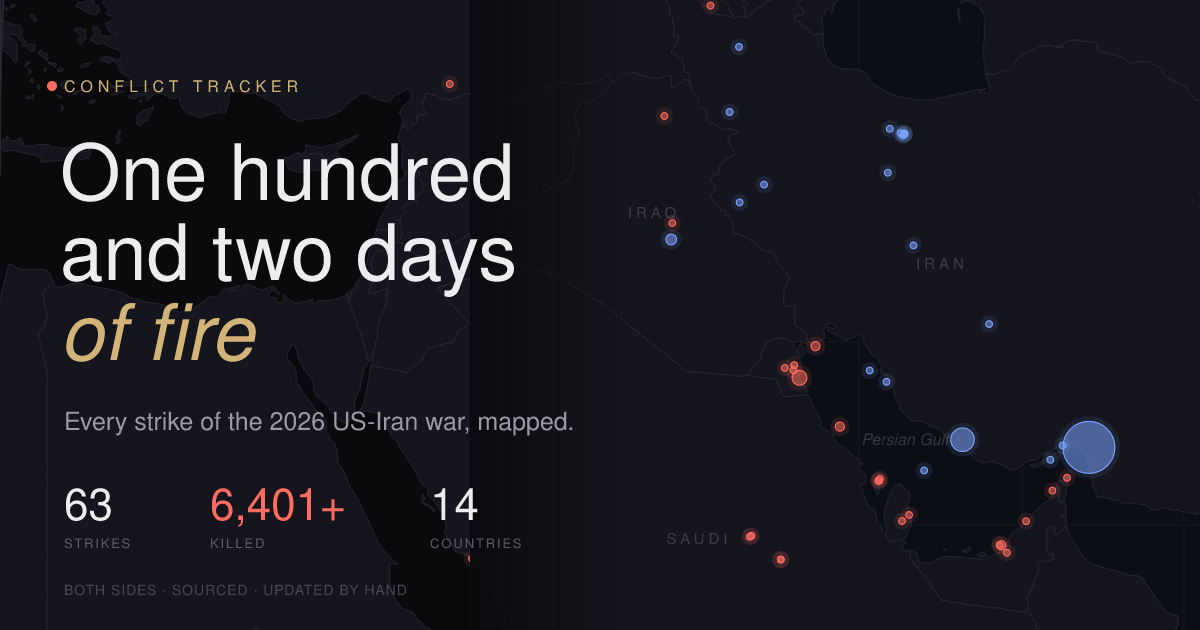
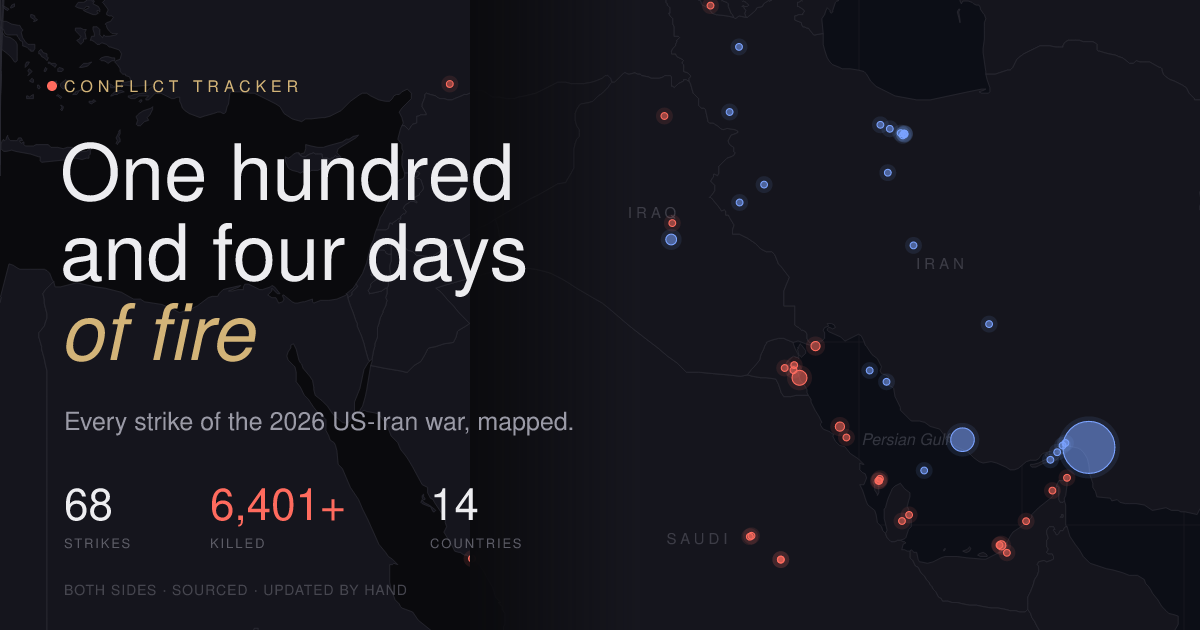
Update through 12 June: add June 9-11 escalation, Hormuz closure, refresh share image

diff --git a/index.html b/index.html
@@ -3,21 +3,21 @@
 <head>
 <meta charset="UTF-8">
 <meta name="viewport" content="width=device-width, initial-scale=1.0">
-<title>102 Days of Fire: The 2026 Iran War, Strike by Strike</title>
+<title>104 Days of Fire: The 2026 Iran War, Strike by Strike</title>
 <meta name="description" content="Every documented strike of the 2026 US-Iran war from both sides, mapped. 63 events across 14 countries with sourced, range-honest casualty figures. Compiled by hand.">
-<meta property="og:site_name" content="102 Days of Fire">
-<meta property="og:title" content="One hundred and two days of fire">
-<meta property="og:description" content="Every documented strike of the 2026 Iran war from both sides, mapped. 63 events, 14 countries, compiled 10 June 2026.">
+<meta property="og:site_name" content="104 Days of Fire">
+<meta property="og:title" content="One hundred and four days of fire">
+<meta property="og:description" content="Every documented strike of the 2026 Iran war from both sides, mapped. 68 events, 14 countries, compiled 12 June 2026.">
 <meta property="og:type" content="article">
-<meta property="og:url" content="https://mossadmademedoit.xyz/">
-<meta property="og:image" content="https://mossadmademedoit.xyz/og.png">
+<meta property="og:url" content="https://iran-war-strike-tracker.onrender.com/">
+<meta property="og:image" content="https://iran-war-strike-tracker.onrender.com/og.png">
 <meta property="og:image:width" content="1200">
 <meta property="og:image:height" content="630">
 <meta property="og:image:alt" content="Dark map of the Middle East with strike markers across Iran and the Gulf, headlined One hundred and two days of fire.">
 <meta name="twitter:card" content="summary_large_image">
-<meta name="twitter:title" content="One hundred and two days of fire: the 2026 Iran war, strike by strike">
-<meta name="twitter:description" content="63 documented strikes across 14 countries, from both sides. Compiled 10 June 2026.">
-<meta name="twitter:image" content="https://mossadmademedoit.xyz/og.png">
+<meta name="twitter:title" content="One hundred and four days of fire: the 2026 Iran war, strike by strike">
+<meta name="twitter:description" content="68 documented strikes across 14 countries, from both sides. Compiled 12 June 2026.">
+<meta name="twitter:image" content="https://iran-war-strike-tracker.onrender.com/og.png">
 <style>
   :root{
     --bg:#0a0a0d; --ink:#121218; --ink2:#17171f; --line:#26262f; --line2:#34343f;
@@ -189,19 +189,20 @@
   <!-- ======================= MASTHEAD ======================= -->
   <header class="mast">
     <div class="kicker"><span class="live"></span>Conflict Tracker · United States &amp; Israel × Iran</div>
-    <h1>One hundred and two days <em>of fire</em></h1>
+    <h1>One hundred and four days <em>of fire</em></h1>
     <p class="stand">Before dawn on the last day of February, American and Israeli aircraft opened a war that
     has never been formally declared. The first strikes killed <b>Iran's Supreme Leader</b> and most of his
     Defense Council in one night. Iran hit back within hours, at Tel Aviv, at the Fifth Fleet,
     at airports, embassies and tankers across seven countries. A ceasefire held through April and May.
-    <b>It broke this month.</b> This page maps every documented strike of the war from both sides,
-    using the casualty claims each side has published, including where those claims disagree.</p>
-    <div class="dateline">COMPILED 10 JUNE 2026 · 63 STRIKE EVENTS · 14 COUNTRIES AND INTERNATIONAL WATERS · UPDATED BY HAND</div>
+    <b>It collapsed in June</b>, and Iran has now declared the Strait of Hormuz closed to shipping. This page maps every
+    documented strike of the war from both sides, using the casualty claims each side has published,
+    including where those claims disagree.</p>
+    <div class="dateline">COMPILED 12 JUNE 2026 · 68 STRIKE EVENTS · 14 COUNTRIES AND INTERNATIONAL WATERS · UPDATED BY HAND</div>
   </header>
 
   <!-- ======================= FIGURES ======================= -->
   <div class="figures">
-    <div class="fig"><div class="n">102</div><div class="l">Days of war</div></div>
+    <div class="fig"><div class="n">104</div><div class="l">Days of war</div></div>
     <div class="fig gold"><div class="n" id="fEvents">–</div><div class="l">Strikes tracked</div></div>
     <div class="fig blue"><div class="n" id="fUS">–</div><div class="l">US · Israel strikes</div></div>
     <div class="fig red"><div class="n" id="fIR">–</div><div class="l">Iranian strikes</div></div>
@@ -237,8 +238,9 @@
         <h3>The broken ceasefire</h3>
         <div class="ph-d">1 APR – PRESENT</div>
         <p>Two months of fragile quiet while negotiators argue over the Strait of Hormuz and enriched
-        uranium. On 1 June it breaks. US jets hit Iranian military sites, Iranian missiles hit Kuwait
-        and Bahrain, and drones go after the shipping lanes. Kuwait City counts one dead and 63 wounded.</p>
+        uranium. The quiet ends on 1 June. By the second week of June it is full war again: US strikes
+        hit the Hormuz coast and the towns around Tehran, Iran fires ballistic missiles at the Al-Azraq
+        base in Jordan, and on 11 June Tehran declares the Strait of Hormuz closed to shipping.</p>
         <div class="ph-hint">Click to filter ↓</div>
       </div>
     </div>
@@ -379,7 +381,7 @@
     <p>Casualty figures are claims made by health ministries, militaries and monitoring groups
     that contradict one another. Where they disagree, the range is shown. Coordinates are
     approximate to the named city, base or facility. Coastlines are Natural Earth data. The page
-    was compiled by hand on 10 June 2026 and is almost certainly an undercount, since most strikes
+    was compiled by hand on 12 June 2026 and is almost certainly an undercount, since most strikes
     in the record list no casualty figure at all.</p>
   </div>
 
@@ -415,6 +417,9 @@ const strikes=[
  {d:'2026-03-18',side:'coalition',loc:'South Pars gas field',lat:26.50,lon:52.00,k:-1,i:-1,n:'Attack on the world’s largest gas field.'},
  {d:'2026-06-01',side:'coalition',loc:'Iranian military sites, multiple',lat:30.50,lon:54.00,k:-1,i:-1,n:'US bombed Iranian military sites as the ceasefire frayed.'},
  {d:'2026-06-03',side:'coalition',loc:'Qeshm Island, ground control station',lat:26.790,lon:55.890,k:-1,i:-1,n:'CENTCOM “self-defense strike” on a military ground control station in the Strait of Hormuz.'},
+ {d:'2026-06-09',side:'coalition',loc:'Strait of Hormuz coast, Bandar Abbas, Sirik, Qeshm, Kharg Island',lat:27.0,lon:56.1,k:-1,i:-1,n:'US fired about 49 Tomahawk missiles at IRGC coastal facilities, outposts and the area around Bandar Abbas airport as the war reignited.'},
+ {d:'2026-06-10',side:'coalition',loc:'Towns around Tehran, Abyek, Qarchak, Nazarabad, Karaj',lat:35.95,lon:50.65,k:-1,i:-1,n:'Second day of renewed US strikes, with blasts reported across towns ringing the capital.'},
+ {d:'2026-06-10',side:'coalition',loc:'Water facility near Bandar Abbas',lat:27.25,lon:56.35,k:-1,i:-1,n:'Iran said a US strike on a drinking-water facility cut supply to about 20,000 people. Iranian claim.'},
  {d:'2026-02-28',side:'iran',loc:'Tel Aviv',lat:32.085,lon:34.782,k:1,i:27,n:'Missile struck a residential area in the first hours of retaliation.'},
  {d:'2026-02-28',side:'iran',loc:'Haifa & northern Israel',lat:32.794,lon:34.990,k:0,i:1,n:'Nine-storey building hit.'},
  {d:'2026-02-28',side:'iran',loc:'Manama, US Fifth Fleet HQ area',lat:26.216,lon:50.586,k:-1,i:-1,n:'Explosions over the Bahraini capital; Fifth Fleet headquarters targeted Feb 28 and again Mar 1.'},
@@ -455,6 +460,8 @@ const strikes=[
  {d:'2026-06-01',side:'iran',loc:'US forces in Kuwait',lat:29.30,lon:47.70,k:0,i:0,n:'Missiles fired at US troops were downed as the ceasefire frayed.'},
  {d:'2026-06-03',side:'iran',loc:'Bahrain & Kuwait',lat:27.70,lon:49.40,k:1,i:63,n:'Three missiles at Bahrain intercepted; two at Kuwait fell short, yet Kuwait reported one dead, 63 injured, its airport closed and diplomatic missions damaged.'},
  {d:'2026-06-03',side:'iran',loc:'Gulf shipping lanes',lat:26.30,lon:56.40,k:0,i:0,n:'Three one-way attack drones targeting civilian shipping shot down by US forces.'},
+ {d:'2026-06-10',side:'iran',loc:'Al-Azraq Air Base, Jordan',lat:31.83,lon:36.78,k:0,i:0,n:'IRGC fired 12 ballistic missiles at four sites including F-35 hangars and a command center. Jordan said it intercepted five, with debris falling and no injuries.'},
+ {d:'2026-06-10',side:'iran',loc:'US bases in Kuwait and Bahrain',lat:27.4,lon:49.6,k:0,i:1,n:'Missile and drone attacks on US bases. In Bahrain an 11-year-old girl was hurt and homes and cars were damaged by interception debris.'},
 ];
 const deaths=[
  ['Iran',3468,6000,'3,468 (Iran MoH) to 6,000+ (US/Israel est.)'],